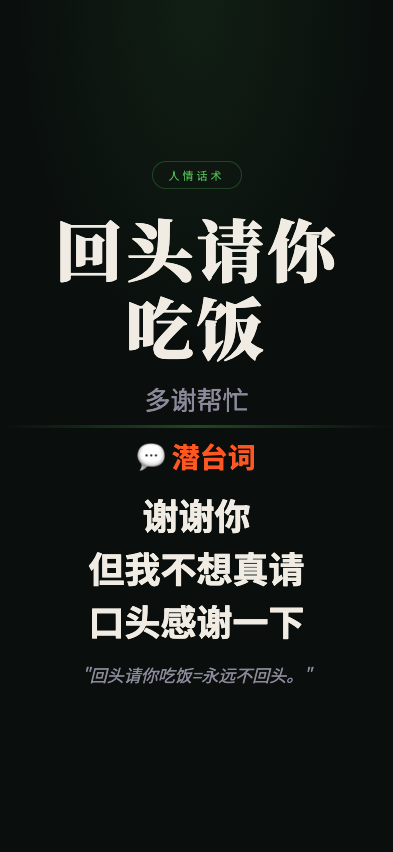
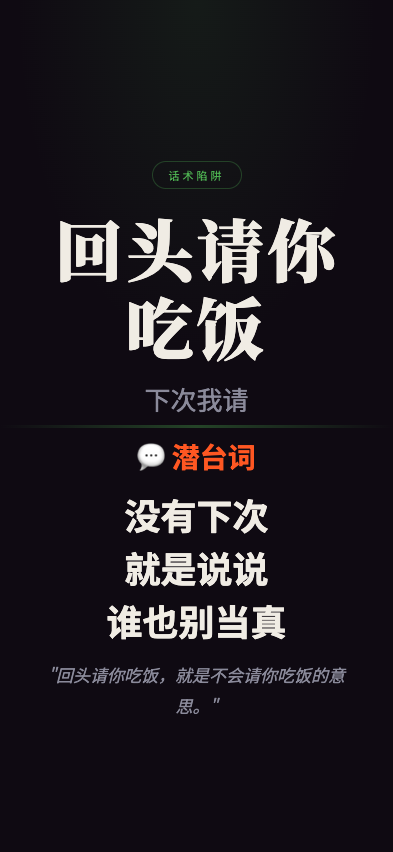
feat: 职场生存法则 screenshot - huitouqingnichifan

Changed region(s): [[0.1221, 0.5798, 0.8855, 0.8545], [0.3664, 0.4577, 0.6412, 0.4883], [0.4275, 0.1831, 0.5802, 0.2136]]

diff --git a/wuliao-tools/tools/biz-speak/scenes/huitouqingnichifan.html b/wuliao-tools/tools/biz-speak/scenes/huitouqingnichifan.html
@@ -7,7 +7,7 @@
 <link href="https://fonts.googleapis.com/css2?family=Noto+Serif+SC:wght@400;700;900&family=Noto+Sans+SC:wght@300;400;700&display=swap" rel="stylesheet">
 <style>
   :root {
-    --bg: #0a0f0d;
+    --bg: #0f0a12;
     --text: #f0ece4;
     --text-dim: #8a8a9a;
     --gold: #4caf50;
@@ -41,19 +41,19 @@
 </head>
 <body>
   <div class="top">
-    <div class="tag">人情话术</div>
+    <div class="tag">话术陷阱</div>
     <div class="main-title">回头请你吃饭</div>
-    <div class="sub-title">多谢帮忙</div>
+    <div class="sub-title">下次我请</div>
   </div>
   <div class="divider"></div>
   <div class="bottom">
     <div class="truth-label">💬 潜台词</div>
     <div class="truth-lines">
-      <div class="truth-line">谢谢你</div>
-      <div class="truth-line">但我不想真请</div>
-      <div class="truth-line">口头感谢一下</div>
+      <div class="truth-line">没有下次</div>
+      <div class="truth-line">就是说说</div>
+      <div class="truth-line">谁也别当真</div>
     </div>
-    <div class="quote">"回头请你吃饭=永远不回头。"</div>
+    <div class="quote">"回头请你吃饭，就是不会请你吃饭的意思。"</div>
   </div>
 </body>
 </html>
